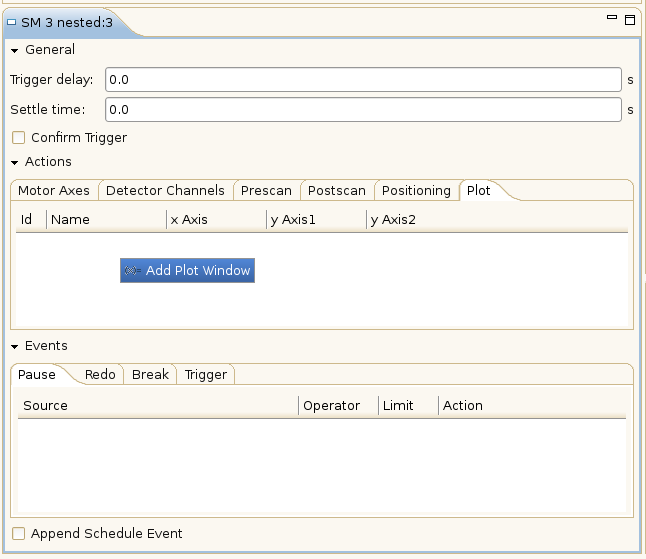
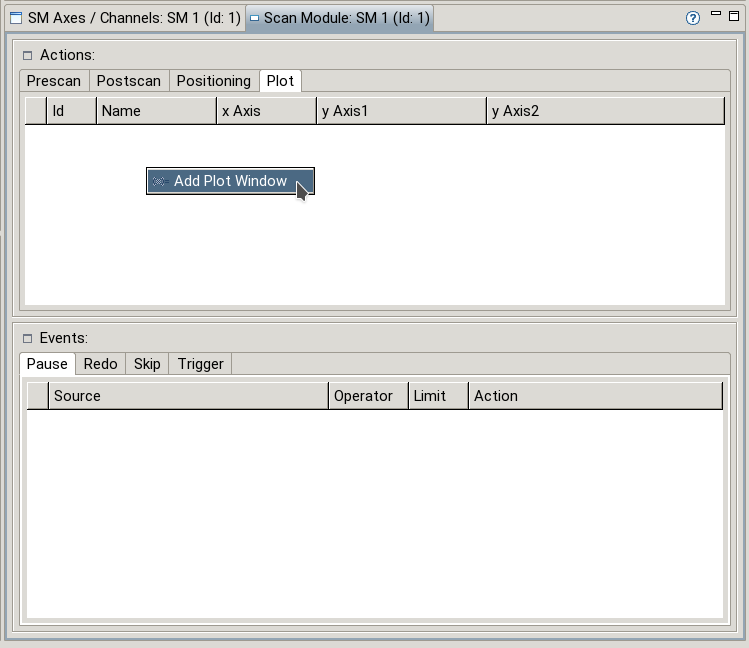
#5429: fixed screenshot in tasks entry "Add a Plot Window"

diff --git a/bundles/de.ptb.epics.eve.editor/help/content/tasks/addplotwindow.html b/bundles/de.ptb.epics.eve.editor/help/content/tasks/addplotwindow.html
@@ -1,1 +1,1 @@
-<?xml version='1.0' encoding='utf-8' ?><!DOCTYPE html PUBLIC "-//W3C//DTD XHTML 1.0 Transitional//EN" "http://www.w3.org/TR/xhtml1/DTD/xhtml1-transitional.dtd"><html xmlns="http://www.w3.org/1999/xhtml"><head><meta http-equiv="Content-Type" content="text/html; charset=utf-8"/><title>addplotwindow</title><link type="text/css" rel="stylesheet" href="PLUGINS_ROOT/de.ptb.epics.eve.editor/help/css/editor.css"/></head><body><h1 id="AddaPlotWindow" class="eveTopic">Add a Plot Window</h1><p>To add a plot window to a scan module follow these steps:</p><ol><li>Select the scan module where the plot window should be added to by (left-)clicking on it. <br/> <img class="eveImage" alt="select the scan module by clicking on it" title="select the scan module by clicking on it" border="0" src="../../img/tasks/adddevicetoscanmodule-selectscanmodule.png"/></li><li>In the Scan Module View select the plot tab, right click in the white space and click &#8222;Add Plot Window&#8221;. <br/> <img class="eveImage" alt="Click Add Plot Window in the context menu" title="Click Add Plot Window in the context menu" border="0" src="../../img/tasks/addplotwindow-contextmenu.png"/></li><li>Now you can edit the properties of the plot window in the Plot Window View (bottom right).</li></ol></body></html>
+<?xml version='1.0' encoding='utf-8' ?><!DOCTYPE html PUBLIC "-//W3C//DTD XHTML 1.0 Transitional//EN" "http://www.w3.org/TR/xhtml1/DTD/xhtml1-transitional.dtd"><html xmlns="http://www.w3.org/1999/xhtml"><head><meta http-equiv="Content-Type" content="text/html; charset=utf-8"/><title>addplotwindow</title><link type="text/css" rel="stylesheet" href="PLUGINS_ROOT/de.ptb.epics.eve.editor/help/css/editor.css"/></head><body><h1 id="AddaPlotWindow" class="eveTopic">Add a Plot Window</h1><p>To add a plot window to a scan module follow these steps:</p><ol><li>Select the scan module where the plot window should be added to by (left-)clicking on it. <br/> <img class="eveImage" alt="select the scan module by clicking on it" title="select the scan module by clicking on it" border="0" src="../../img/tasks/adddevicestosm/adddevicestosm-clickonsm.png"/></li><li>In the Scan Module View select the plot tab, right click in the white space and click &#8222;Add Plot Window&#8221;. <br/> <img class="eveImage" alt="Click Add Plot Window in the context menu" title="Click Add Plot Window in the context menu" border="0" src="../../img/tasks/addplotwindow-contextmenu.png"/></li><li>Now you can edit the properties of the plot window in the Plot Window View (bottom right).</li></ol></body></html>
